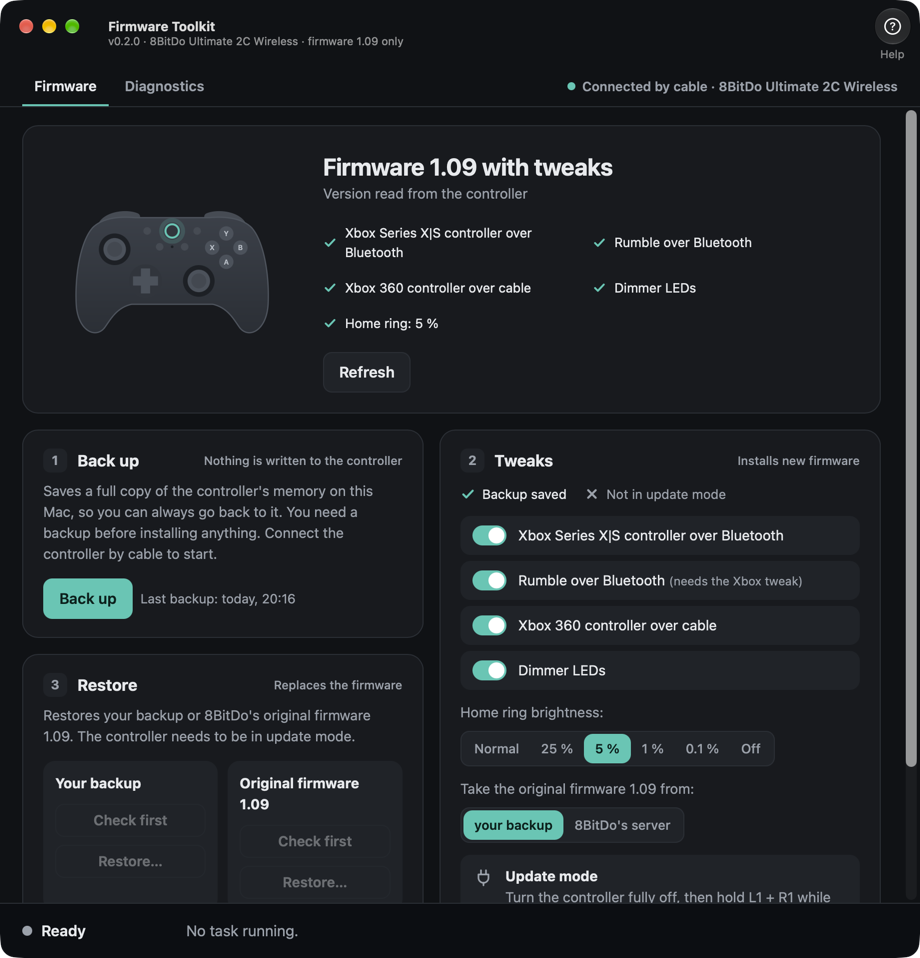
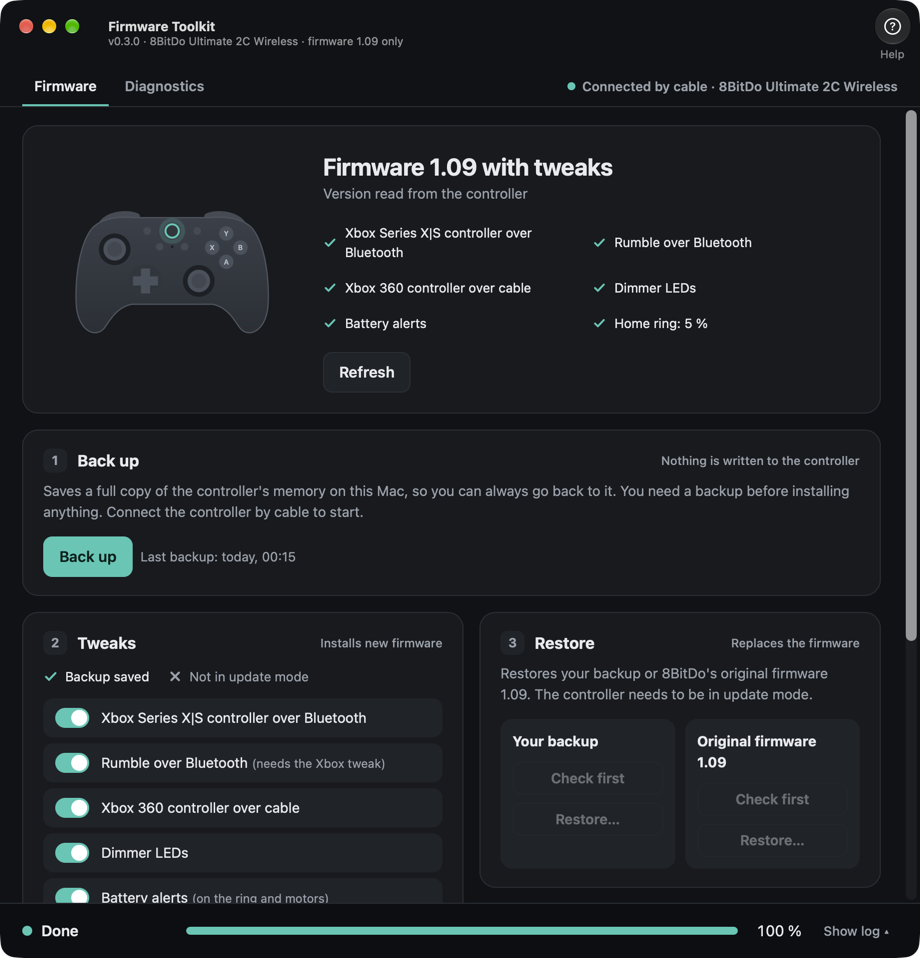
Record the validation of 0.3.0, pin its firmware and update the screenshot

diff --git a/tests/test_firmware.py b/tests/test_firmware.py
@@ -105,7 +105,7 @@ class ControllerNameTest(unittest.TestCase):
             self.assertEqual((st.known, st.recipes), (True, tuple(sorted(keys))), keys)
 
     def test_the_published_tweaks_keep_their_bytes(self):
-        """Firmware installed by 0.1.x and 0.2.0 is only recognised while these match: changing a blob needs an `accepts` for the old one."""
+        """Firmware installed by 0.1.x, 0.2.0 and 0.3.0 is only recognised while these match: changing a blob needs an `accepts` for the old one."""
         published = {
[2 lines of base64/hex data omitted]
@@ -115,6 +115,12 @@ class ControllerNameTest(unittest.TestCase):
[9 lines of base64/hex data omitted]
         }
         for name, sha in published.items():
             self.assertEqual(hashlib.sha256((recipes.BLOBS / name).read_bytes()).hexdigest(), sha, name)

diff --git a/docs/validation.md b/docs/validation.md
@@ -39,3 +39,25 @@ read back and identified afterwards.
 - **Detection:** turning the controller off, connecting it and entering update mode are noticed without pressing Refresh.
 
 Not validated: other Ultimate 2C units, rumble in CrossOver games, the dongle (refused by design), Linux.
+
+# Hardware validation of 0.3.0 (2026-11-06)
+
+Run on the same controller, macOS 27.2 (Apple silicon), through the macOS app and the command line.
+
+- **Install over 0.2.0:** the command line wrote 1250 bytes in update mode. A backup read by cable afterwards identifies the
+  five tweaks plus Battery alerts, and no longer as outdated. Compared with the backup before it, only the firmware area and
+  the saved ring level (settings field +25) differ. The pairings and the controller's address are unchanged.
+- **Battery alerts, at 100 %:** plugging in gives one short pulse and a slow blink for a few seconds, then the ring settles.
+- **Home ring, by cable and over Bluetooth:** the level changes at once from the app. A saved level is back after turning the
+  controller off and on. L4 + R4 steps through the levels by cable and over Bluetooth.
+- **Saving during use:** over Bluetooth, with L4 + R4 pressed more than 6 times in 3 minutes (each press saves after 3 s),
+  reports arrived at 116 per second with no disconnection. The median gap was 14.6 ms and the longest 59 ms.
+- **Bluetooth test tab:** controls, triggers, sticks and the vibration tests respond. The battery is shown through macOS.
+- **A native game (SDL, Xbox mode):** a Pokémon port plays without drops, and vibrates when it should.
+- **A game through Steam and NotProton:** the controls work. The game doesn't vibrate, so rumble there wasn't tried.
+- **Restore and install again:** the app restored the original 1.09 over 0.3. A backup identifies it as original, the payload
+  matches 8BitDo's hash, the area past the payload is blank, and nothing outside the firmware area changed. Installing the same
+  tweaks from the app gave a flash identical to the first install, and the saved ring level came back.
+
+Not validated: the alerts with a really drained battery (near 15 % and 5 %) and the pulse when charging completes. The pulses and
+blink patterns were tried on the controller with a test build that simulates those states.
